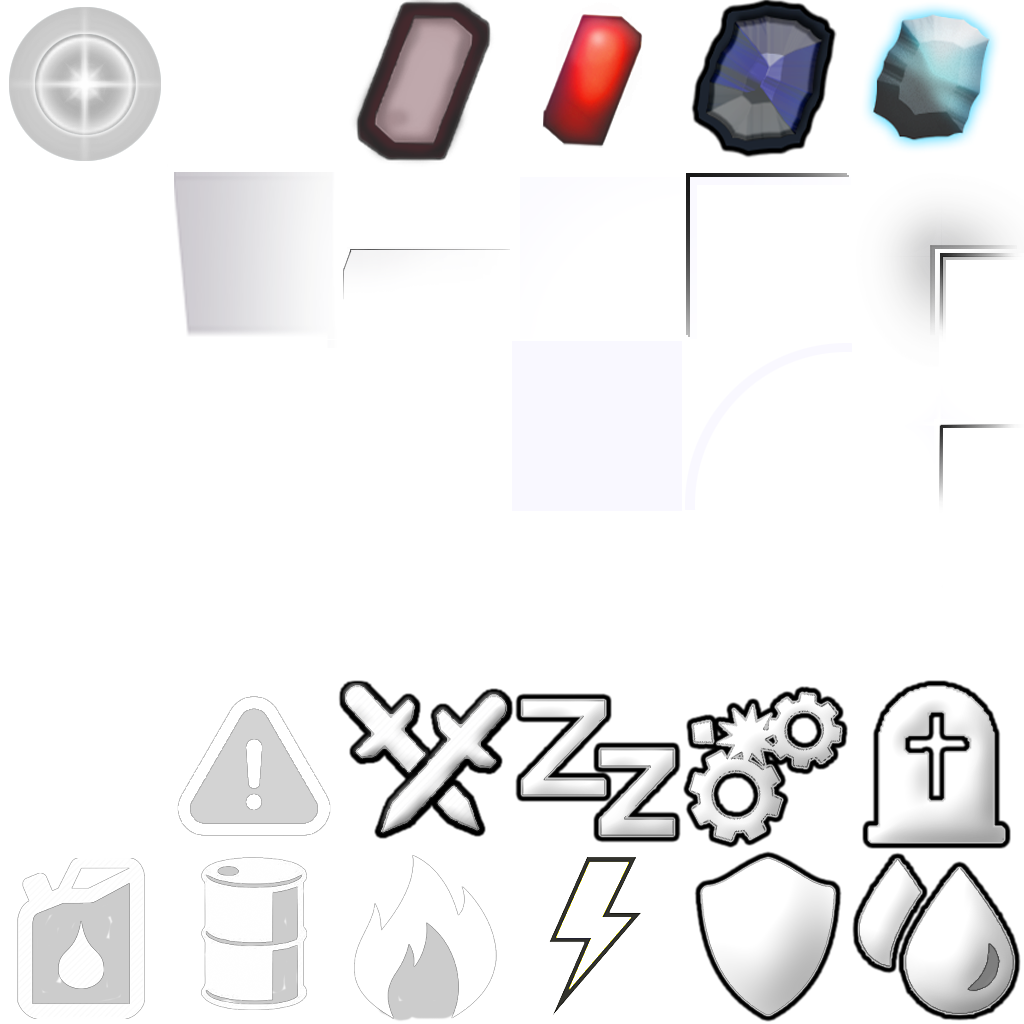
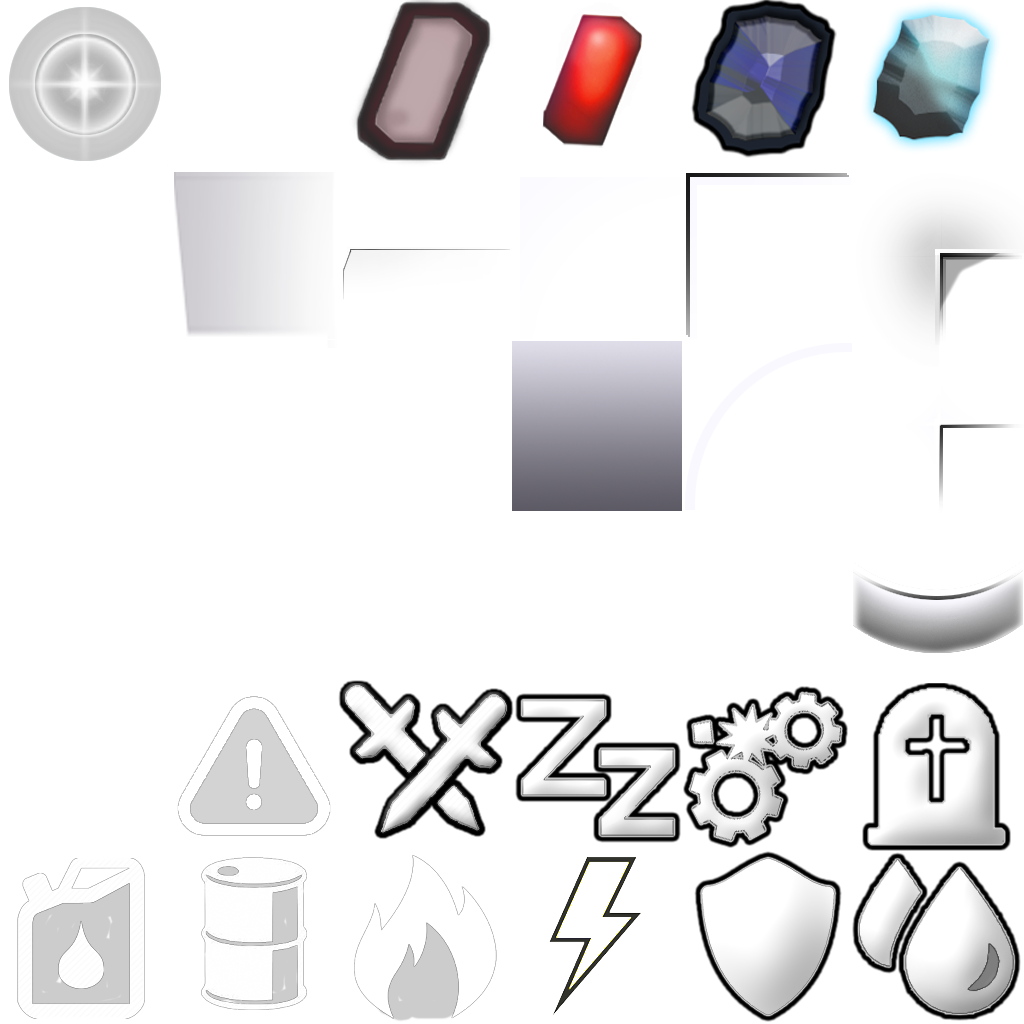
edges

diff --git a/client/js/worker/ui/elements/GuiSurfaceElement.js b/client/js/worker/ui/elements/GuiSurfaceElement.js
@@ -4,6 +4,7 @@ define([
         'GuiAPI',
         'ConfigObject',
         'ui/elements/GuiPlateElement',
+        'ui/elements/GuiEdgeElement',
         'ui/elements/GuiCornerElement',
         'ui/functions/GuiSurfaceLayout'
     ],
@@ -11,6 +12,7 @@ define([
         GuiAPI,
         ConfigObject,
         GuiPlateElement,
+        GuiEdgeElement,
         GuiCornerElement,
         GuiSurfaceLayout
     ) {
@@ -34,6 +36,11 @@ define([
             this.bottomLeft = new GuiCornerElement();
             this.bottomRight = new GuiCornerElement();
 
+            this.top = new GuiEdgeElement();
+            this.left = new GuiEdgeElement();
+            this.right = new GuiEdgeElement();
+            this.bottom = new GuiEdgeElement();
+
         };
 
         GuiSurfaceElement.prototype.initSurfaceElement = function(onReadyCB) {
@@ -54,32 +61,51 @@ define([
 
         GuiSurfaceElement.prototype.initSurfaceCorners = function(cornersReady) {
 
-
-            var br = function(crnr) {
+            var last = function(crnr) {
                 crnr.getCornerQuaternion().set(0, 0, -1, 0);
                 cornersReady();
             }.bind(this);
 
-            var bl = function(crnr) {
+            var br = function(crnr) {
                 crnr.getCornerQuaternion().set(1, 0, 0, 0);
-                this.bottomRight.initCornerElement(br)
+                this.bottomRight.initCornerElement(last)
+            }.bind(this);
+
+            var bl = function(crnr) {
+                crnr.getCornerQuaternion().set(0, 1, 0, 0);
+                this.bottomLeft.initCornerElement(br)
             }.bind(this);
 
             var tr = function(crnr) {
-                crnr.getCornerQuaternion().set(0, 1, 0, 0);
-                this.bottomLeft.initCornerElement(bl)
-            }.bind(this);
-
-            var tl = function(crnr) {
                 crnr.getCornerQuaternion().set(0, 0, 0, 1);
-                this.topRight.initCornerElement(tr)
+                this.topRight.initCornerElement(bl)
             }.bind(this);
 
-            var bp = function() {
-                this.topLeft.initCornerElement(tl)
+            var tl = function(edge) {
+                edge.setRotation(0, 0, -Math.PI * 0.5);
+                this.topLeft.initCornerElement(tr)
             }.bind(this);
 
-            this.backplate.initPlateElement(bp)
+            var r = function(edge) {
+                edge.getEdgeQuaternion().set(1, 0, 0, 0);
+                this.right.initEdgeElement(tl)
+            }.bind(this);
+
+            var b = function(edge) {
+                edge.setRotation(0, 0, Math.PI * 0.5);
+                this.bottom.initEdgeElement(r)
+            }.bind(this);
+
+            var l = function(edge) {
+                edge.getEdgeQuaternion().set(0, 0, 0, 1);
+                this.left.initEdgeElement(b)
+            }.bind(this);
+
+            var t = function() {
+                this.top.initEdgeElement(l)
+            }.bind(this);
+
+            this.backplate.initPlateElement(t)
 
         };
 
@@ -90,6 +116,7 @@ define([
         GuiSurfaceElement.prototype.applySurfaceData = function(surfaceData) {
             this.guiSurfaceLayout.parseLaoutConfig(surfaceData.layout);
             this.guiSurfaceLayout.applyLayoutToCorners(this.topLeft, this.topRight, this.bottomLeft, this.bottomRight);
+            this.guiSurfaceLayout.applyLayoutToEdges(this.top, this.left, this.right, this.bottom);
             this.guiSurfaceLayout.getLayoutCenter(this.backplate.getPlatePosition());
             this.backplate.setPlateWidthAndHeight(this.guiSurfaceLayout.getLayoutWidth(), this.guiSurfaceLayout.getLayoutHeight())
         };
@@ -108,6 +135,20 @@ define([
             this.bottomRight.setCornerActive(bool, dataKey);
         };
 
+        GuiSurfaceElement.prototype.applyEdgesPassive = function(bool, dataKey) {
+            this.top.setEdgeActive(bool, dataKey);
+            this.left.setEdgeActive(bool, dataKey);
+            this.right.setEdgeActive(bool, dataKey);
+            this.bottom.setEdgeActive(bool, dataKey);
+        };
+
+        GuiSurfaceElement.prototype.applyEdgesActive = function(bool, dataKey) {
+            this.top.setEdgePassive(bool, dataKey);
+            this.left.setEdgePassive(bool, dataKey);
+            this.right.setEdgePassive(bool, dataKey);
+            this.bottom.setEdgePassive(bool, dataKey);
+        };
+
         GuiSurfaceElement.prototype.applyBackplatePassive = function(bool, dataKey) {
             this.backplate.setPlatePassive(bool, dataKey);
         };
@@ -119,15 +160,19 @@ define([
         GuiSurfaceElement.prototype.updateSurfaceVisuals = function(surfaceData) {
 
             if (surfaceData.corners) {
-                this.applyCornersPassive(surfacePassive, surfaceData.corners.corner_passive_fx);
-                this.applyCornersActive(surfaceAvtive, surfaceData.corners.corner_active_fx);
+                this.applyCornersPassive(surfacePassive, surfaceData.corners.passive_fx);
+                this.applyCornersActive(surfaceAvtive, surfaceData.corners.active_fx);
+            }
+
+            if (surfaceData.edges) {
+                this.applyEdgesPassive(surfacePassive, surfaceData.edges.passive_fx);
+                this.applyEdgesActive(surfaceAvtive, surfaceData.edges.active_fx);
             }
 
             if (surfaceData.backplate) {
-                this.applyBackplatePassive(surfacePassive, surfaceData.backplate.plate_passive_fx);
-                this.applyBackplateActive(surfaceAvtive, surfaceData.backplate.plate_active_fx);
+                this.applyBackplatePassive(surfacePassive, surfaceData.backplate.passive_fx);
+                this.applyBackplateActive(surfaceAvtive, surfaceData.backplate.active_fx);
             }
-
 
         };
 

diff --git a/client/js/worker/ui/elements/GuiEdgeElement.js b/client/js/worker/ui/elements/GuiEdgeElement.js
@@ -1,0 +1,93 @@
+"use strict";
+
+define([
+    'GuiAPI',
+        'ConfigObject',
+        'ui/elements/EffectList'
+    ],
+    function(
+        GuiAPI,
+        ConfigObject,
+        EffectList
+    ) {
+
+        var GuiEdgeElement = function() {
+
+            this.obj3d = new THREE.Object3D();
+
+            this.edgePassiveEffect = new EffectList();
+            this.edgeActiveEffect = new EffectList();
+            this.scale = 1;
+            this.aspect = 1;
+        };
+
+        GuiEdgeElement.prototype.initEdgeElement = function(onReadyCB) {
+
+            var configLoaded = function() {
+                onReadyCB(this);
+            }.bind(this);
+
+            this.configObject = new ConfigObject('GUI_ELEMENTS', 'GUI_EDGE_ELEMENT', 'config');
+            this.configObject.addCallback(configLoaded);
+
+        };
+
+        GuiEdgeElement.prototype.configRead = function(dataKey) {
+            return this.configObject.getConfigByDataKey(dataKey)
+        };
+
+        GuiEdgeElement.prototype.enableEdgeEffects = function(effectList, dataKey) {
+            if (effectList.effectCount() === 0) {
+                effectList.enableEffectList(this.configRead(dataKey), this.obj3d.position, this.obj3d.quaternion, this.scale, this.aspect);
+            }
+        };
+
+        GuiEdgeElement.prototype.disableEdgeEffects = function(effectList) {
+            effectList.disableEffectList();
+        };
+
+        GuiEdgeElement.prototype.setEdgeActive = function(bool, dataKey) {
+
+            if (bool) {
+                this.enableEdgeEffects(this.edgeActiveEffect, dataKey)
+            } else {
+                this.disableEdgeEffects(this.edgeActiveEffect)
+            }
+
+        };
+
+        GuiEdgeElement.prototype.setEdgePassive = function(bool, dataKey) {
+
+            if (bool) {
+                this.enableEdgeEffects(this.edgePassiveEffect, dataKey)
+            } else {
+                this.disableEdgeEffects(this.edgePassiveEffect)
+            }
+        };
+
+        GuiEdgeElement.prototype.setEdgeWidthAndHeight = function(width, height) {
+            this.scale = width;
+            this.aspect = height/width;
+            this.edgePassiveEffect.setEffectListAspect(this.aspect);
+            this.edgePassiveEffect.setEffectListAspect(this.aspect)
+        };
+
+        GuiEdgeElement.prototype.setEdgeXY = function(x, y) {
+            this.obj3d.position.set(x, y, -1);
+        };
+
+        GuiEdgeElement.prototype.setEdgeQuaternion = function(quat) {
+            this.obj3d.quaternion.copy(quat);
+        };
+
+        GuiEdgeElement.prototype.getEdgeQuaternion = function() {
+            return this.obj3d.quaternion;
+        };
+
+        GuiEdgeElement.prototype.setRotation = function(x, y, z) {
+            return this.obj3d.rotation.set(x, y, z);
+        };
+
+        return GuiEdgeElement;
+
+    });

diff --git a/client/js/worker/ui/functions/GuiSurfaceLayout.js b/client/js/worker/ui/functions/GuiSurfaceLayout.js
@@ -97,10 +97,33 @@ define([
             bottomRight.setCornerXY(this.xMax,  this.yMax);
         };
 
+        GuiSurfaceLayout.prototype.applyLayoutToEdges = function(top, left, right, bottom) {
+            top.setEdgeXY(    this.getCenterX(),  this.yMin);
+            left.setEdgeXY(   this.xMin,  this.getCenterY());
+            right.setEdgeXY(  this.xMax,  this.getCenterY());
+            bottom.setEdgeXY( this.getCenterX(),  this.yMax);
+
+            top.setEdgeWidthAndHeight(this.getLayoutWidth(), 0.015);
+
+            left.setEdgeWidthAndHeight(0.015, this.getLayoutHeight());
+            right.setEdgeWidthAndHeight(0.015, this.getLayoutHeight());
+
+            bottom.setEdgeWidthAndHeight(this.getLayoutWidth(), 0.015)
+
+        };
+
         GuiSurfaceLayout.prototype.getLayoutCenter = function(storeVec) {
-            storeVec.x = (this.xMin + this.xMax) / 2;
-            storeVec.y = (this.yMin + this.yMax) / 2;
+            storeVec.x = this.getCenterX();
+            storeVec.y = this.getCenterY();
             storeVec.z = -1;
+        };
+
+        GuiSurfaceLayout.prototype.getCenterX = function() {
+            return (this.xMin + this.xMax) / 2;
+        };
+
+        GuiSurfaceLayout.prototype.getCenterY = function() {
+            return (this.yMin + this.yMax) / 2;
         };
 
         GuiSurfaceLayout.prototype.getLayoutWidth = function() {

diff --git a/client/js/worker/ui/elements/GuiPlateElement.js b/client/js/worker/ui/elements/GuiPlateElement.js
@@ -69,22 +69,8 @@ define([
             }
         };
 
-
-        GuiPlateElement.prototype.applyPlateScale = function(scale) {
-
-        //    if (this.scale !== scale) {
-                this.scale = scale;
-                this.platePassiveEffect.setEffectListScale(scale);
-                this.plateActiveEffect.setEffectListScale(scale);
-
-                this.platePassiveEffect.setEffectListPosition(this.getPlatePosition());
-                this.plateActiveEffect.setEffectListPosition(this.getPlatePosition())
-        //    }
-        };
-
         GuiPlateElement.prototype.setPlateWidthAndHeight = function(width, height) {
             this.scale = width;
-
             this.aspect = height/width;
             this.platePassiveEffect.setEffectListAspect(this.aspect);
             this.plateActiveEffect.setEffectListAspect(this.aspect)
